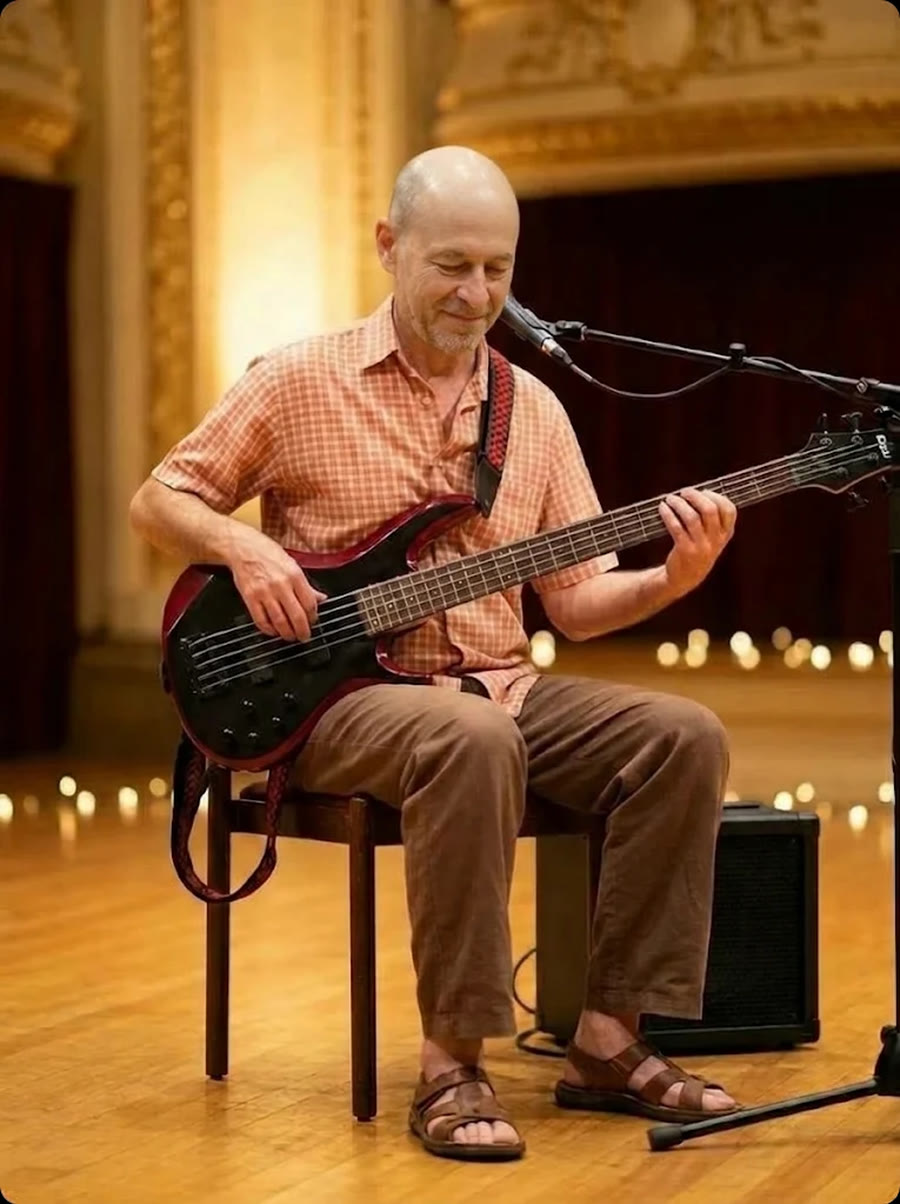
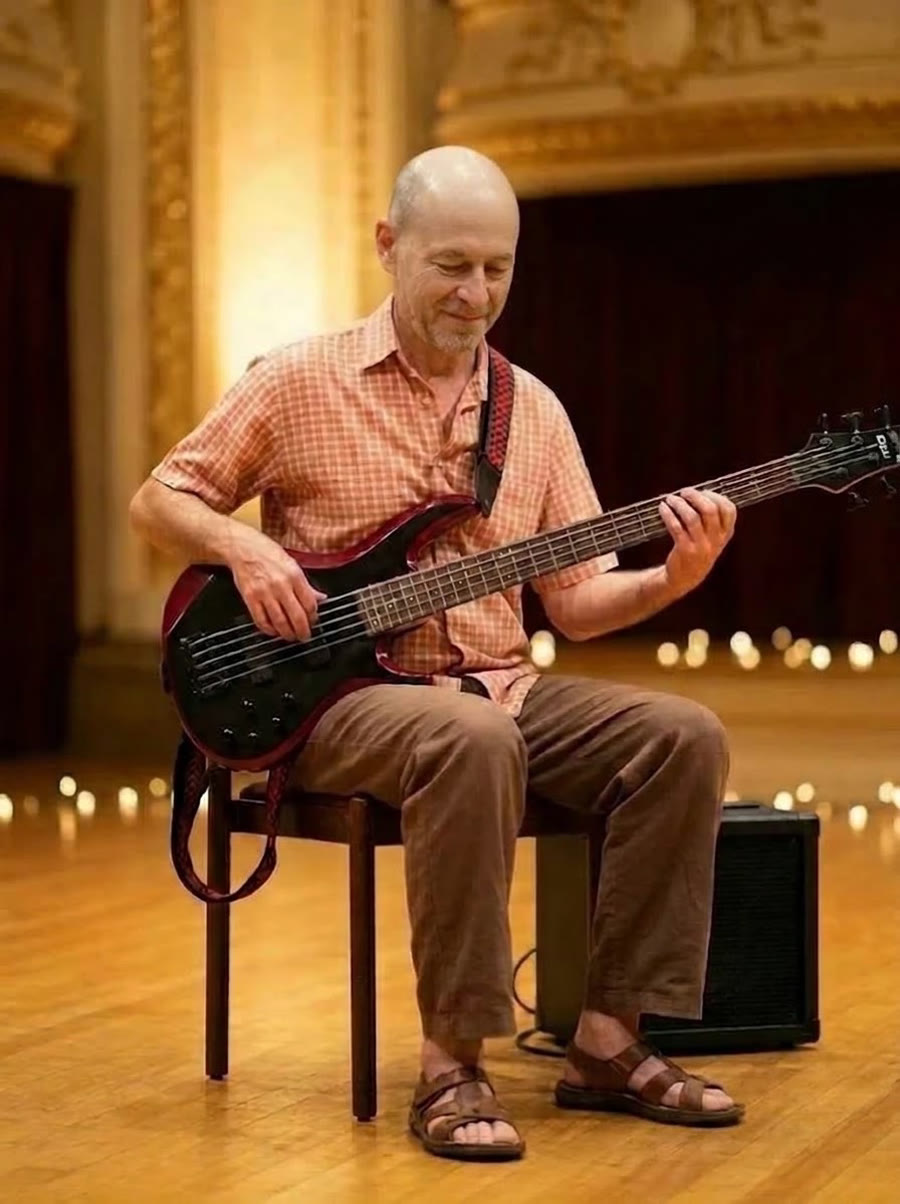
Svemir portrait: microphone, stand and cable removed (imgtoimg AI Image Editor, Marko: looks good) (9.11.2026)
Claude-Session: https://claude.ai/code/session_01NceKU8PKmedvkKm89PySPN

diff --git a/index.html b/index.html
@@ -506,7 +506,7 @@ table.eqt td, table.eqt th { white-space: normal; font-size: 15px; }
     <p class="lead"><span class="en">Seven of us, from Zagreb. The portraits are photographic renderings made from our real photos, all in one concert hall.</span><span class="hr">Sedmero nas, iz Zagreba. Portreti su fotografske izrade iz naših pravih fotografija, svi u istoj koncertnoj dvorani.</span></p>
   </header>
   <img class="band-hero" src="img/band/hero.jpg?v=20261109c" alt="">
-  <div class="players"><figure class="player"><img src="img/band/a-bass.jpg?v=20261109b" alt="" loading="lazy"><figcaption><b>Svemir Vranko</b><span><span class="en">bass guitar · voice</span><span class="hr">bas-gitara · glas</span></span></figcaption></figure><figure class="player"><img src="img/band/b-djembe.jpg" alt="" loading="lazy"><figcaption><b>Marko Boško</b><span><span class="en">djembe</span><span class="hr">džembe</span></span></figcaption></figure><figure class="player"><img src="img/band/c-mridangam.jpg" alt="" loading="lazy"><figcaption><b>Kristian Nasteski</b><span><span class="en">mridangam · harmonium · voice</span><span class="hr">mridangam · harmonij · glas</span></span></figcaption></figure><figure class="player"><img src="img/band/d-guitar.jpg?v=20261109b" alt="" loading="lazy"><figcaption><b>Igor Pavlić</b><span><span class="en">voice · guitar</span><span class="hr">glas · gitara</span></span></figcaption></figure><figure class="player"><img src="img/band/e-voice.jpg" alt="" loading="lazy"><figcaption><b>Tajana Stipetić</b><span><span class="en">voice</span><span class="hr">glas</span></span></figcaption></figure><figure class="player"><img src="img/band/f-nylon.jpg" alt="" loading="lazy"><figcaption><b>Tomislav Tenšek Snoopy</b><span><span class="en">guitar</span><span class="hr">gitara</span></span></figcaption></figure><figure class="player"><img src="img/band/g-bells.jpg" alt="" loading="lazy"><figcaption><b>Petra Belamarić</b><span><span class="en">tambourine</span><span class="hr">tamburin</span></span></figcaption></figure></div>
+  <div class="players"><figure class="player"><img src="img/band/a-bass.jpg?v=20261109d" alt="" loading="lazy"><figcaption><b>Svemir Vranko</b><span><span class="en">bass guitar · voice</span><span class="hr">bas-gitara · glas</span></span></figcaption></figure><figure class="player"><img src="img/band/b-djembe.jpg" alt="" loading="lazy"><figcaption><b>Marko Boško</b><span><span class="en">djembe</span><span class="hr">džembe</span></span></figcaption></figure><figure class="player"><img src="img/band/c-mridangam.jpg" alt="" loading="lazy"><figcaption><b>Kristian Nasteski</b><span><span class="en">mridangam · harmonium · voice</span><span class="hr">mridangam · harmonij · glas</span></span></figcaption></figure><figure class="player"><img src="img/band/d-guitar.jpg?v=20261109b" alt="" loading="lazy"><figcaption><b>Igor Pavlić</b><span><span class="en">voice · guitar</span><span class="hr">glas · gitara</span></span></figcaption></figure><figure class="player"><img src="img/band/e-voice.jpg" alt="" loading="lazy"><figcaption><b>Tajana Stipetić</b><span><span class="en">voice</span><span class="hr">glas</span></span></figcaption></figure><figure class="player"><img src="img/band/f-nylon.jpg" alt="" loading="lazy"><figcaption><b>Tomislav Tenšek Snoopy</b><span><span class="en">guitar</span><span class="hr">gitara</span></span></figcaption></figure><figure class="player"><img src="img/band/g-bells.jpg" alt="" loading="lazy"><figcaption><b>Petra Belamarić</b><span><span class="en">tambourine</span><span class="hr">tamburin</span></span></figcaption></figure></div>
   <footer>Santoshi Kirtan Band · Zagreb</footer>
 </div>
 </section>
